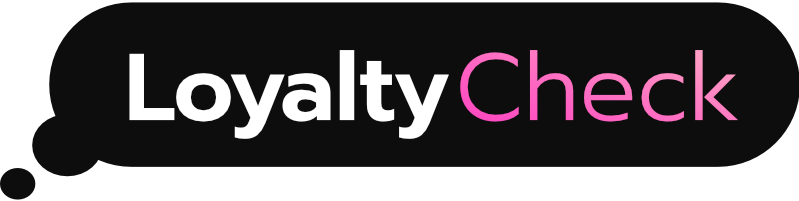
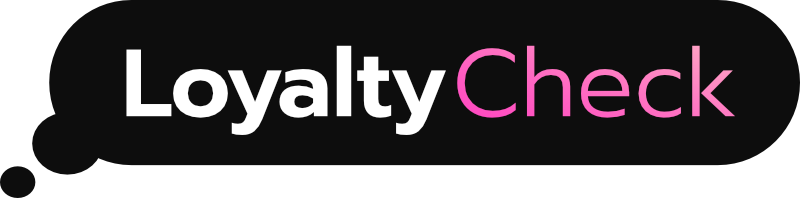
stats

diff --git a/index.html b/index.html
@@ -17,6 +17,10 @@
         <link href="https://cdnjs.cloudflare.com/ajax/libs/simple-line-icons/2.5.5/css/simple-line-icons.min.css" rel="stylesheet" />
         <!-- Google fonts-->
         <link href="https://fonts.googleapis.com/css2?family=League+Gothic&family=PT+Serif&display=swap" rel="stylesheet">
+        <!-- Scripts-->
+        <script rel="text/javascript" src="js/scripts.js"></script>
+        <script rel="text/javascript" src="js/snippets.js" ></script>
+
         <!-- Core theme CSS (includes Bootstrap)-->
         <link href="css/styles.css" rel="stylesheet" />
         <link href="css/custom.css" rel="stylesheet" />
@@ -25,13 +29,28 @@
     <body id="page-top">
         <!-- Navigation-->
         <!-- Header-->
-        <header class = "ninty-5-full full-screen">
-            <div class = "display-flex align-center pt-4">
-        <a class="px-4" href="#page-top">Home</a>
-        <a class="px-4" href="#about">About</a>
-        <img class = "small" src="assets/img/lc.png"/>
-        <a class="px-4" href="#services">Portraits</a>
-        <a class="px-4" href="#services">Services</a>
+        <nav class = "bg-light nav">
+            <div class = "display-flex align-center">
+                <img class = "small transparent p-2" src="assets/img/lc.png"/>
+                <div class = "nav-button">
+                    <div class = "item"></div>
+                    <a class="px-4 " onclick="scrollToSection(event)" href="#about">How it works</a>
+                </div>
+                <div class = "nav-button">
+                    <div class = "item"></div>
+                    <a class="px-4" onclick="scrollToSection(event)" href="#services">Why us</a>
+                </div>
+                <div class = "nav-button">
+                    <div class = "item"></div>
+                    <a class="px-4" onclick="scrollToSection(event)" href="#">About</a>
+                </div>
+                <div class = "nav-button">
+                    <div class = "item"></div>
+                    <a class="px-4" onclick="scrollToSection(event)" href="#services"></a>
+                </div>
+            </div>
+        </nav>
+        <header class = "ninty-5-full full-screen pt-5">
             </div>
             <div class="flex-box justify-content">
                 <div class="display-flex pb-6 px-4">
@@ -87,27 +106,36 @@
         <br>
         <br>
         <!-- Services-->
-        <section class="content-section bg-secondary text-black rounded-pill bubble-spacing" id="services">
-            <div class="highlights-flex pill-padding">
-                <div class="pro text-center">
+        <h1 class = "text-center text-black" id="services">Features</h1>
+        <section class="content-section text-black rounded-pill bubble-spacing px-5" id="services">
+            <div class="highlights-flex">
+                <div class="pro text-center bubble-left rounded-pill">
                     <img class = "big-icon fill-black" src="assets/icons/account.svg"/>
-                    <h4 class="text-secondary text-black pt-4">Real accounts</h4>
-                    <p>All agents use geniune instagram accounts and have strong interpersonal skills.</p>
+                    <div class = "headlines py-4">
+                        <h4 class="text-secondary text-black">Real accounts</h4>
+                        <p>All agents use geniune instagram accounts and have strong interpersonal skills</p>
+                    </div>
                 </div>
-                <div class="pro text-center">
+                <div class="pro text-center bubble-right rounded-pill">
                     <img class = "big-icon fill-black" src="assets/icons/map.svg"/>
-                    <h4 class="text-secondary text-black pt-4">Agents live near your partner</h4>
-                    <p>For more seductivity</p>
+                    <div class = "headlines py-4">
+                        <h4 class="text-secondary text-black pt-4">Agents live near your partner</h4>
+                        <p>For more seductivity</p>
+                    </div>
                 </div>
-                <div class="pro text-center">
+                <div class="pro text-center bubble-left rounded-pill">
                     <img class = "big-icon fill-black" src="assets/icons/shield.svg"/>
-                    <h4 class="text-secondary text-black pt-4">Only $5 if they don't reply</h4>
-                    <p>Desirable outcomes deserves desirable rates</p>
+                    <div class = "headlines py-4">
+                        <h4 class="text-secondary text-black pt-4">Only $20 if your partner doesn't reply</h4>
+                        <p>Desirable outcomes deserve desirable rates</p>
+                    </div>
                 </div>
-                <div class="pro text-center">
+                <div class="pro text-center bubble-right rounded-pill">
                     <img class = "big-icon fill-black" src="assets/icons/lock.svg"/>
-                    <h4 class="text-secondary text-black pt-4">Completely Anonymous</h4>
-                    <p>Pairing isn't told who the client is.</p>
+                    <div class = "headlines py-4">
+                        <h4 class="text-secondary text-black pt-4">Completely Anonymous</h4>
+                        <p>We don't collect or share any of your information</p>
+                    </div>
                 </div>
             </div>
         </section>
@@ -123,7 +151,7 @@
         <script src="https://cdn.jsdelivr.net/npm/bootstrap@5.1.3/dist/js/bootstrap.bundle.min.js"></script>
         <!-- Core theme JS-->
         <script src="js/scripts.js"></script>
-        <a href='https://dryicons.com/free-icons/photos'> Icon by Dryicons </a>
+        </class><a href='https://dryicons.com/free-icons/photos'> Icon by Dryicons </a>
 
     </body>
 </html>

diff --git a/js/scripts.js b/js/scripts.js
@@ -3,58 +3,58 @@
 * Copyright 2013-2022 Start Bootstrap
 * Licensed under MIT (https://github.com/StartBootstrap/startbootstrap-stylish-portfolio/blob/master/LICENSE)
 */
-window.addEventListener('DOMContentLoaded', event => {
+// window.addEventListener('DOMContentLoaded', event => {
 
-    const sidebarWrapper = document.getElementById('sidebar-wrapper');
-    let scrollToTopVisible = false;
-    // Closes the sidebar menu
-    const menuToggle = document.body.querySelector('.menu-toggle');
-    menuToggle.addEventListener('click', event => {
-        event.preventDefault();
-        sidebarWrapper.classList.toggle('active');
-        _toggleMenuIcon();
-        menuToggle.classList.toggle('active');
-    })
+// const sidebarWrapper = document.getElementById('sidebar-wrapper');
+// let scrollToTopVisible = false;
+// Closes the sidebar menu
+// const menuToggle = document.body.querySelector('.menu-toggle');
+// menuToggle.addEventListener('click', event => {
+// event.preventDefault();
+// sidebarWrapper.classList.toggle('active');
+// _toggleMenuIcon();
+// menuToggle.classList.toggle('active');
+// })
 
-    // Closes responsive menu when a scroll trigger link is clicked
-    var scrollTriggerList = [].slice.call(document.querySelectorAll('#sidebar-wrapper .js-scroll-trigger'));
-    scrollTriggerList.map(scrollTrigger => {
-        scrollTrigger.addEventListener('click', () => {
-            sidebarWrapper.classList.remove('active');
-            menuToggle.classList.remove('active');
-            _toggleMenuIcon();
-        })
-    });
+// Closes responsive menu when a scroll trigger link is clicked
+// var scrollTriggerList = [].slice.call(document.querySelectorAll('#sidebar-wrapper .js-scroll-trigger'));
+// scrollTriggerList.map(scrollTrigger => {
+// scrollTrigger.addEventListener('click', () => {
+// sidebarWrapper.classList.remove('active');
+// menuToggle.classList.remove('active');
+// _toggleMenuIcon();
+// })
+// });
 
-    function _toggleMenuIcon() {
-        const menuToggleBars = document.body.querySelector('.menu-toggle > .fa-bars');
-        const menuToggleTimes = document.body.querySelector('.menu-toggle > .fa-xmark');
-        if (menuToggleBars) {
-            menuToggleBars.classList.remove('fa-bars');
-            menuToggleBars.classList.add('fa-xmark');
-        }
-        if (menuToggleTimes) {
-            menuToggleTimes.classList.remove('fa-xmark');
-            menuToggleTimes.classList.add('fa-bars');
-        }
-    }
+// function _toggleMenuIcon() {
+// const menuToggleBars = document.body.querySelector('.menu-toggle > .fa-bars');
+// const menuToggleTimes = document.body.querySelector('.menu-toggle > .fa-xmark');
+// if (menuToggleBars) {
+// menuToggleBars.classList.remove('fa-bars');
+// menuToggleBars.classList.add('fa-xmark');
+// }
+// if (menuToggleTimes) {
+// menuToggleTimes.classList.remove('fa-xmark');
+// menuToggleTimes.classList.add('fa-bars');
+// }
+// }
 
-    // Scroll to top button appear
-    document.addEventListener('scroll', () => {
-        const scrollToTop = document.body.querySelector('.scroll-to-top');
-        if (document.documentElement.scrollTop > 100) {
-            if (!scrollToTopVisible) {
-                fadeIn(scrollToTop);
-                scrollToTopVisible = true;
-            }
-        } else {
-            if (scrollToTopVisible) {
-                fadeOut(scrollToTop);
-                scrollToTopVisible = false;
-            }
-        }
-    })
-})
+// Scroll to top button appear
+// document.addEventListener('scroll', () => {
+// const scrollToTop = document.body.querySelector('.scroll-to-top');
+// if (document.documentElement.scrollTop > 100) {
+// if (!scrollToTopVisible) {
+// fadeIn(scrollToTop);
+// scrollToTopVisible = true;
+// }
+// } else {
+// if (scrollToTopVisible) {
+// fadeOut(scrollToTop);
+// scrollToTopVisible = false;
+// }
+// }
+// })
+// })
 
 function fadeOut(el) {
     el.style.opacity = 1;

diff --git a/css/custom.css b/css/custom.css
@@ -1,7 +1,4 @@
 
-html {
-  font-size: 1rem;
-}
 
 @include media-breakpoint-up(sm) {
   html {
@@ -19,6 +16,10 @@ html {
   html {
     font-size: 1.6rem;
   }
+}
+html {
+  font-size: 1rem;
+  scroll-behavior: smooth;
 }
 
 :root {
@@ -72,8 +73,12 @@ html {
   flex-shrink: inherit;
 }
 
+.transparent {
+  background-color: transparent;
+}
+
 .small {
-  width: 20rem;
+  width: 15rem;
 }
 
 .shrink {
@@ -95,12 +100,7 @@ html {
   width: 50%;
 }
 
-.rounded {
-  border-radius: 25px;
-}
 
-.bubble-spacing {
-}
 
 .no-dec {
   list-style: none;
@@ -128,19 +128,7 @@ html {
   align-items: center;
 }
 
-.highlights-flex {
-  display: flex;
-  flex-flow: row wrap;
-  justify-content: center;
-}
 
-.pro {
- padding-left: 5rem; 
- padding-top: 2rem;
- padding-right: 5rem;
- min-width:30rem;
- max-width:30rem;
-}
 
 .fill-white {
   filter: brightness(0) saturate(100%) invert(100%) sepia(2%) saturate(1757%) hue-rotate(181deg) brightness(115%) contrast(100%);
@@ -154,34 +142,72 @@ html {
   filter: brightness(0) saturate(100%) invert(42%) sepia(77%) saturate(1262%) hue-rotate(296deg) brightness(104%) contrast(102%); 
 }
 
-.triangle-left{
-  width: 0;
-  height: 0;
-  border: 0 solid transparent;
-  margin-top: -10rem;
-  margin-left: 7rem;
-  border-bottom-width: 49px;
-  border-top-width: 114px;
-  border-radius: 10px;
-  border-left: 131px solid var(--bs-dark);
+.highlights-flex {
+  display: flex;
+  flex-flow: column nowrap;
+  align-items: center;
+  justify-content: center;
+  border-style: solid;
+  padding: 1rem;
+  border-width: 10px;
+  border-color: black;
+  border-radius: 50px;
 }
 
-.triangle-right {
-  width: 0;
-  height: 0;
-  border: 0 solid transparent;
-  margin-top: -10rem;
-  margin-right: 7rem;
-  border-top-width: 49px;
-  border-bottom-width: 114px;
-  border-right: 131px solid var(--bs-dark);
-
+.pro {
+ padding-left: 5rem; 
+ padding-top: 2rem;
+ padding-right: 5rem;
+ min-width:30rem;
+ max-width:40rem;
 }
 
-.left-bubble {
-  margin-top: -30%;
+.bubble-left {
+  background-color: white;
+  align-self: flex-start;
+  display: flex;
+  flex-direction: row;
+  border-color: rgb(234,234,234);
+  border-width:3px;
+  border-style: solid;
+}
+
+.bubble-right {
+  background-color: white;
+  align-self: flex-end;
+  display: flex;
+  flex-direction: row;
+  background-color: rgb(234,234,234);
+}
+
+.headlines {
+  padding-right: 3rem;
+  padding-left: 3rem;
+  width: 30rem;
+  text-align: left;
+}
+
+.nav-button {
+  height: 3rem;
+  text-align: center;
+  padding: .5rem;
   border-radius: 50%;
-  width: 15rem;
-  height: 15rem;
+}
+.nav-button a{
+  text-decoration: none;
+  color: var(--bs-dark);
+  transition: color 0.5s;
+  font-size: 17px;
+  transition-timing-function: cubic-bezier(0.165, 0.84, 0.44, 1);  
 }
 
+.nav-button a:hover {
+  color: var(--bs-pink);
+}
+
+
+.nav {
+ position: fixed; 
+ width: 100%; 
+ z-index: 10;
+}
